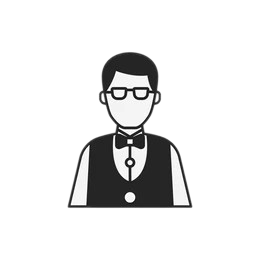
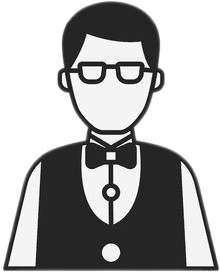
input text OK :zap:

diff --git a/screens/Play.js b/screens/Play.js
@@ -1,11 +1,13 @@
 import React, { useContext } from 'react';
 import { ColorContext } from '../context/ColorContext';
+import { DealerContext } from '../context/DealerContext';
 import { StyleSheet, Text, Image, View, TouchableOpacity, SafeAreaView, ScrollView, Colors} from 'react-native';
 
 export default function PlayScreen() {
 
   const { isDarkMode, toggleTheme } = useContext(ColorContext);
-
+  const { dealerName } = useContext(DealerContext);
+  
   const colors = [ 'blue', 'red', 'gold', 'green', 'purple']
   const letters = ["H", "S", "P", "D", "R"]
 
@@ -17,8 +19,16 @@ export default function PlayScreen() {
       justifyContent: 'flex-start',
     },
     dealer: {
-      justifyContent: 'flex-end',
-      flexDirection: 'row'
+      flexDirection: 'column',
+      alignItems: 'center',
+    },
+    dealer_image: {
+      width: '100%',
+      resizeMode: 'contain',
+    },
+    dealer_name: {
+      fontSize: 20,
+      color: isDarkMode ? 'white' : '#303030',
     },
     text_top: {
       fontSize: 20,
@@ -28,21 +38,17 @@ export default function PlayScreen() {
     },
     text_middle: {
       fontSize: 20,
+      fontWeight: 'bold',
+      color: isDarkMode ? 'white' : '#303030'
     },
-    down: {
-      justifyContent: 'flex-end',
-      alignItems: 'center'
-    }, 
     scroll: {
       alignSelf: 'center',
-      paddingTop: 20,
     },
     button: {
       height: 50,
       width: 50,
       alignItems: 'center',
       justifyContent: 'center',
-      padding: 10,
       marginHorizontal: 10,
       borderRadius: 5,
     },
@@ -50,13 +56,19 @@ export default function PlayScreen() {
       color: 'white',
       fontWeight: 'bold',
     },
+    down: {
+      alignItems: 'center'
+    }, 
   });
   
   return (
       <SafeAreaView style={styles.container}>
-        <View style={styles.dealer}>
-          <Image source={require('../assets/dealer.png')}/>
-        </View>      
+        <View style={styles.dealer_part}>
+          <View style={styles.dealer}>
+            <Image style={styles.dealer_image} source={require('../assets/dealer.png')}/>
+            <Text style={styles.dealer_name}> {dealerName}</Text>   
+          </View>    
+        </View>
         <View style={styles.middle}>
           <Text style={styles.text_middle}>YOUR CHOICE</Text>
         </View>

diff --git a/screens/Settings.js b/screens/Settings.js
@@ -1,17 +1,17 @@
-import React, { useContext } from 'react';
-import { useState } from 'react';
+import React, { useContext, useState } from 'react';
 import { ColorContext } from '../context/ColorContext';
+import { DealerContext } from '../context/DealerContext';
+
 import { StyleSheet, Text, TextInput, Image, View, TouchableOpacity, SafeAreaView, Switch, FlatList} from 'react-native';
 import Icon from 'react-native-vector-icons/Ionicons';
 
-export default function SettingsScreen() {
+export default function SettingsScreen({ navigation }) {
 
   const { isDarkMode, toggleTheme } = useContext(ColorContext);
+  const { dealerName, setDealerName } = useContext(DealerContext);
   const [text, setText] = useState('');
 
-  const onChangeText = (inputText) => {
-    setText(inputText);
-  };
+  const switchColor = isDarkMode ? 'white' : '#303030'
 
   const LANGUAGE_LIST = [
     { id: '1', flag: require('../assets/french.png') },
@@ -50,7 +50,7 @@ export default function SettingsScreen() {
       margin: 12,
       borderWidth: 1,
       padding: 10,
-      color: isDarkMode ? '#303030' : 'white',
+      color: isDarkMode ? 'white' : '#303030',
     },
   });
 
@@ -74,7 +74,7 @@ export default function SettingsScreen() {
 
         <View style={styles.settingRow}>
           <View style={styles.iconDecoration}>
-            <Icon name='moon' size={45}></Icon>
+            <Icon name='moon' size={45} colro={switchColor}></Icon>
           </View>
           <Text style={{fontSize: 30, fontWeight: 'bold', color: isDarkMode ? 'white' : '#303030'}}>Dark Mode</Text>
           <Switch value={isDarkMode} onValueChange={toggleTheme} />
@@ -94,8 +94,9 @@ export default function SettingsScreen() {
         <View>
           <TextInput
             placeholder="Choose the name of your dealer..."
-            onChangeText={onChangeText}
-            value={text}
+            onChangeText={newText => setText(newText)}
+            onSubmitEditing={() => setDealerName(text)}
+            value={text}   
             style={styles.input}
           />
         </View>

diff --git a/App.js b/App.js
@@ -3,6 +3,7 @@ import Navigation from './TabNavigations';
 import store from './redux/store';
 import { Provider } from 'react-redux';
 import { ThemeProvider } from './context/ColorContext';
+import { DealerProvider } from './context/DealerContext';
 
 const colors = ['blue', 'red', 'gold', 'green', 'purple'];
 const letters = ['H', 'S', 'P', 'D', 'R']
@@ -10,14 +11,14 @@ const letters = ['H', 'S', 'P', 'D', 'R']
 export default function App() {
   return (
     <ThemeProvider>
-      <Provider store ={store}>
-      <SafeAreaProvider>
-        <Navigation>
-        </Navigation>
-      </SafeAreaProvider>
-    </Provider>
+      <DealerProvider>
+        <Provider store ={store}>
+          <SafeAreaProvider>
+            <Navigation>
+            </Navigation>
+          </SafeAreaProvider>
+        </Provider>
+      </DealerProvider>
     </ThemeProvider>
-    
-
   );
 }

diff --git a/context/DealerContext.tsx b/context/DealerContext.tsx
@@ -1,0 +1,18 @@
+import React, { createContext, useState } from 'react';
+
+type DealerContextType = {
+  dealerName: string;
+  setDealerName: React.Dispatch<React.SetStateAction<string>>;
+}
+
+export const DealerContext = createContext<DealerContextType>({ dealerName: '', setDealerName: () => {} });
+
+export const DealerProvider = ({ children }) => {
+  const [dealerName, setDealerName] = useState('');
+
+  return (
+    <DealerContext.Provider value={{ dealerName, setDealerName }}>
+      {children}
+    </DealerContext.Provider>
+  );
+};
